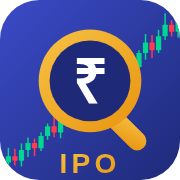
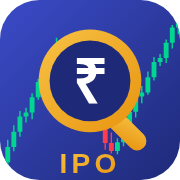
Add files via upload

diff --git a/index.html b/index.html
@@ -277,6 +277,10 @@ details .in{padding:0 14px 14px;}
 body.previewing{overflow:hidden;}
 @media print{ body.previewing > *:not(#preview){display:none!important;}
   #preview{position:static;} #preview .pvbar{display:none!important;} }
+/* When the Search button has armed the IPO-list question, the tool row is the
+   next thing to tap — say so visually. */
+#toolRow.armed{outline:2px solid var(--gold);outline-offset:6px;border-radius:14px;}
+#toolRow.armed .btn{background:var(--surf);border-color:var(--gold);}
 .footer{font-size:11.5px;color:var(--ink3);text-align:center;padding:24px 8px;line-height:1.6;}
 </style>
 </head>
@@ -345,8 +349,9 @@ body.previewing{overflow:hidden;}
     <button class="btn pri" id="btnRun">RUN ANALYSIS IN APP</button>
 
     <label style="margin-top:18px;">Select AI tool</label>
-    <p class="note" style="margin-top:0;margin-bottom:8px;">Copies the prompt and opens the tool. Paste and send.</p>
-    <div class="grid2">
+    <p class="note" id="toolHint" style="margin-top:0;margin-bottom:8px;">Copies the prompt and opens
+    the tool &mdash; its app if you have it installed, otherwise the website. Paste and send.</p>
+    <div class="grid2" id="toolRow">
       <button class="btn sm" data-tool="claude">Claude</button>
       <button class="btn sm" data-tool="chatgpt">ChatGPT</button>
       <button class="btn sm" data-tool="gemini">Gemini</button>
@@ -552,7 +557,7 @@ body.previewing{overflow:hidden;}
 
   
 <div class="footer">
-    IPO Analyst &middot; <span id="verApp">v3.5</span> &middot; framework <span id="verFw">v3.5</span> &middot; build <span id="verBuild">-</span><br>
+    IPO Analyst &middot; <span id="verApp">v3.6</span> &middot; framework <span id="verFw">v3.6</span> &middot; build <span id="verBuild">-</span><br>
     Research tool only. Not investment advice, not a recommendation, and not a substitute for a SEBI-registered adviser.
     AI output can be wrong or out of date &mdash; verify every figure against the RHP, SEBI filings and the exchanges before acting.
     Equity investment carries the risk of permanent capital loss.
@@ -563,7 +568,7 @@ body.previewing{overflow:hidden;}
 
 <!-- ======================= PROMPT TEMPLATE ======================= -->
 <script type="text/plain" id="tpl">
-# IPO COMPANY RESEARCH REPORT — FRAMEWORK v3.5
+# IPO COMPANY RESEARCH REPORT — FRAMEWORK v3.6
 
 You are researching an Indian IPO and returning your findings as structured data.
 Read Part 1 for who you are, Part 2 for what to research, Part 3 for what to output.
@@ -1468,16 +1473,111 @@ function flash(btn, msg){
   var old = btn.textContent; btn.textContent = msg;
   setTimeout(function(){ btn.textContent = old; }, 1600);
 }
+/* Each tool carries what is needed to reach its INSTALLED app first:
+     pkg    — Android package name, used in an intent:// URL
+     scheme — iOS custom scheme, tried before the website
+     url    — the website, used as the fallback everywhere
+   A browser cannot ask the phone which apps are installed, so this is done the
+   only way that actually works: hand the OS a link that resolves to the app when
+   it is there, and carry the website as the declared fallback when it is not. */
 var TOOLS = {
-  claude:     { url:'https://claude.ai/new',        name:'Claude',     search:'web search is on by default' },
-  chatgpt:    { url:'https://chatgpt.com/',         name:'ChatGPT',    search:'turn on Search in the composer' },
-  gemini:     { url:'https://gemini.google.com/app',name:'Gemini',     search:'use a model with Google Search grounding' },
-  perplexity: { url:'https://www.perplexity.ai/',   name:'Perplexity', search:'search is always on' }
+  claude:     { url:'https://claude.ai/new', host:'claude.ai', path:'/new',
+                pkg:'com.anthropic.claude', scheme:'claude://',
+                name:'Claude',     search:'web search is on by default' },
+  chatgpt:    { url:'https://chatgpt.com/', host:'chatgpt.com', path:'/',
+                pkg:'com.openai.chatgpt', scheme:'chatgpt://',
+                name:'ChatGPT',    search:'turn on Search in the composer' },
+  gemini:     { url:'https://gemini.google.com/app', host:'gemini.google.com', path:'/app',
+                pkg:'com.google.android.apps.bard', scheme:'googlegemini://',
+                name:'Gemini',     search:'use a model with Google Search grounding' },
+  perplexity: { url:'https://www.perplexity.ai/', host:'www.perplexity.ai', path:'/',
+                pkg:'ai.perplexity.app.android', scheme:'perplexity://',
+                name:'Perplexity', search:'search is always on' }
 };
+
+function isAndroid(){ return /Android/i.test(navigator.userAgent); }
+function isIOS(){
+  return /iPad|iPhone|iPod/.test(navigator.userAgent)
+      || (navigator.platform === 'MacIntel' && navigator.maxTouchPoints > 1);
+}
+
+/* Open the tool's app if the phone has it, otherwise its website.
+
+   Android: an intent:// URL with S.browser_fallback_url — Chrome hands it to the
+   app when the package is installed and loads the fallback URL when it is not.
+   That is a single hop with no guessing.
+
+   iOS: the https address is a universal link, so iOS opens the app when it is
+   installed and Safari when it is not. We try the custom scheme first and fall
+   back on a timer, because a universal link opened from an installed PWA does
+   not always hand off.
+
+   Desktop: just open the site. */
+/* One indirection for every navigation the launcher performs, so the launch
+   logic can be exercised in a test without the browser actually leaving. */
+var GO = function(u){ window.location.href = u; };
+
+function openTool(t){
+  if(isAndroid() && t.pkg){
+    var intent = 'intent://' + t.host + t.path + '#Intent;scheme=https;package=' + t.pkg
+               + ';S.browser_fallback_url=' + encodeURIComponent(t.url) + ';end';
+    GO(intent);
+    return;
+  }
+  if(isIOS() && t.scheme){
+    var left = false;
+    var away = function(){ left = true; };
+    window.addEventListener('pagehide', away, { once:true });
+    document.addEventListener('visibilitychange', function vc(){
+      if(document.hidden){ left = true; document.removeEventListener('visibilitychange', vc); }
+    });
+    var t0 = Date.now();
+    GO(t.scheme);
+    setTimeout(function(){
+      window.removeEventListener('pagehide', away);
+      /* Still here after the timeout, and no time jump from being suspended:
+         the app is not installed, so use the website. */
+      if(!left && Date.now() - t0 < 2200) GO(t.url);
+    }, 1400);
+    return;
+  }
+  window.open(t.url, '_blank', 'noopener');
+}
+window.IPOTools = { TOOLS:TOOLS, openTool:openTool, isAndroid:isAndroid, isIOS:isIOS,
+                    setGo:function(f){ GO = f; } };
+/* Which prompt the tool buttons should carry. Set to 'search' by the Search
+   button so the same four buttons serve both jobs — finding IPOs and analysing
+   one — instead of the search flow dumping the user on a Google results page. */
+var PENDING = 'analysis';
+
+function setPending(kind){
+  PENDING = kind;
+  var lbl = $('#toolHint');
+  if(lbl) lbl.innerHTML = kind === 'search'
+    ? '<b>The IPO-list question is copied.</b> Pick a tool below — the app opens if it is '
+      + 'installed, otherwise the website. Paste, send, then bring the reply back with '
+      + '<b>Import Search Data</b>.'
+    : 'Copies the prompt and opens the tool &mdash; its app if you have it installed, otherwise the website. Paste and send.';
+  var row = $('#toolRow');
+  if(row) row.classList.toggle('armed', kind === 'search');
+}
+
 $$('[data-tool]').forEach(function(b){
   b.addEventListener('click', function(){
-    if(!requireCompany()) return;
     var t = TOOLS[b.dataset.tool];
+
+    /* the IPO-list question needs no company name */
+    if(PENDING === 'search'){
+      copyText(IPO_SEARCH_PROMPT).then(function(){
+        b.textContent = 'Copied — opening…';
+        setTimeout(function(){ b.textContent = t.name; }, 2500);
+        openTool(t);
+        setPending('analysis');
+      });
+      return;
+    }
+
+    if(!requireCompany()) return;
     var payload = buildPrompt(), mode = get('ipo.mode','full'), base = get('ipo.base','');
     if(mode === 'link'){
       if(!base){ alert('Set your hosted address under Setup first, or switch back to full text.');
@@ -1493,7 +1593,7 @@ $$('[data-tool]').forEach(function(b){
       saveRecent();
       b.textContent = 'Copied — opening…';
       setTimeout(function(){ b.textContent = t.name; }, 2500);
-      window.open(t.url, '_blank', 'noopener');
+      openTool(t);
     });
   });
 });
@@ -2702,7 +2802,10 @@ $('#ipoPanel').addEventListener('click', function(ev){
   $('#company').blur();
 });
 $('#company').addEventListener('focus', function(){ if(IPO_LIST.length) openPicker(); });
-$('#company').addEventListener('input', function(){ if(pickerOpen()) drawPicker(this.value); });
+$('#company').addEventListener('input', function(){
+  if(pickerOpen()) drawPicker(this.value);
+  if(PENDING === 'search') setPending('analysis');
+});
 document.addEventListener('click', function(ev){
   if(!pickerOpen()) return;
   if(ev.target.closest && (ev.target.closest('#ipoPanel') || ev.target.closest('.pickwrap'))) return;
@@ -2751,11 +2854,17 @@ $('#btnSearch').addEventListener('click', function(){
   var b = this, key = ($('#key').value || get(LS.key,'')).trim();
   var box = $('#searchMsg');
   if(!key){
+    /* Copy only. Opening Google here was never useful — the question is written
+       for an AI tool, not a search engine, and the user then had to leave the
+       results page anyway. The tool buttons below now carry it. */
     copyText(IPO_SEARCH_PROMPT).then(function(){
-      box.innerHTML = '<b>No API key set.</b> The upcoming-IPO question has been copied to your '
-        + 'clipboard — paste it into any AI tool with web search on, then paste its JSON reply back '
-        + 'here using Import Data. Add a key under Setup to have the app do this itself.';
-      window.open('https://www.google.com/search?q=IPO+India+open+and+upcoming+mainboard+and+SME+this+month','_blank','noopener');
+      box.innerHTML = '<b>Question copied.</b> Now tap <b>Claude</b>, <b>ChatGPT</b>, <b>Gemini</b> '
+        + 'or <b>Perplexity</b> below — the app opens if you have it installed, otherwise the '
+        + 'website. Paste, send, then bring the reply back with <b>Import Search Data</b>. '
+        + '(Add an API key under Setup to have the app do this itself.)';
+      setPending('search');
+      var row = $('#toolRow');
+      if(row) row.scrollIntoView({ behavior:'smooth', block:'center' });
     });
     return;
   }
@@ -2802,6 +2911,8 @@ $('#btnSearch').addEventListener('click', function(){
   }
 })();
 
+setPending('analysis');
+
 /* ============================== install prompt ================== */
 var deferred=null;
 window.addEventListener('beforeinstallprompt', function(e){
@@ -2844,7 +2955,7 @@ if('serviceWorker' in navigator){
 </script>
 <script src="vendor/html2canvas.min.js"></script>
 <script src="vendor/jspdf.umd.min.js"></script>
-<script>window.APP_BUILD="2026.08.17.5";</script>
+<script>window.APP_BUILD="2026.08.17.6";</script>
 <script src="render.js"></script>
 <script src="docs.js"></script>
 

diff --git a/sw.js b/sw.js
@@ -1,5 +1,5 @@
 /* IPO Analyst service worker — offline shell */
-var CACHE = 'ipo-analyst-v3.5-2026.08.17.5';
+var CACHE = 'ipo-analyst-v3.6-2026.08.17.6';
 var ASSETS = [
   './', './index.html', './manifest.webmanifest',
   './icons/icon-192.png', './icons/icon-512.png',

diff --git a/README.md b/README.md
@@ -1,8 +1,29 @@
-# IPO Analyst — standalone web app  ·  v3.5  ·  build 2026.08.17.5
+# IPO Analyst — standalone web app  ·  v3.6  ·  build 2026.08.17.6
 
 A single-page web app that turns the institutional IPO research protocol into something you can
 run from an icon on your phone. It works on Android and iPhone/iPad, installs to the home screen,
 runs full-screen with no address bar, and works offline for everything except the AI call itself.
+
+## What changed in v3.6
+
+**Search no longer dumps you on a Google results page.** Tapping Search now copies the IPO-list
+question and stops there — it highlights the four AI tool buttons and tells you to pick one. Google
+was never useful for this: the question is written for an AI tool, not a search engine.
+
+**The tool buttons open the installed app first.** A web page cannot ask a phone which apps it has,
+so this is done the way that actually works rather than by guessing. On Android the app is reached
+through an `intent://` URL carrying the package name and the website as a declared fallback — Chrome
+hands it to Claude, ChatGPT, Gemini or Perplexity when that app is installed and loads the site when
+it is not, in a single hop. On iOS the app's custom scheme is tried first with a timed fallback to
+the website, since a universal link opened from an installed PWA does not always hand off. On
+desktop it simply opens the site. Verified for all four tools on all three platforms.
+
+**The same four buttons now serve both jobs.** They carry the IPO-list question after you tap
+Search, and the full analysis prompt otherwise — so finding an IPO and analysing one follow the same
+path instead of the search flow being a dead end. Typing a company name switches back automatically.
+
+**Logo:** the candlestick background is now an N — climb, decline, climb again — three mountain
+slopes instead of a single rising run.
 
 ## What changed in v3.5
 

diff --git a/protocol.md b/protocol.md
@@ -1,4 +1,4 @@
-# IPO COMPANY RESEARCH REPORT — FRAMEWORK v3.5
+# IPO COMPANY RESEARCH REPORT — FRAMEWORK v3.6
 
 You are researching an Indian IPO and returning your findings as structured data.
 Read Part 1 for who you are, Part 2 for what to research, Part 3 for what to output.
